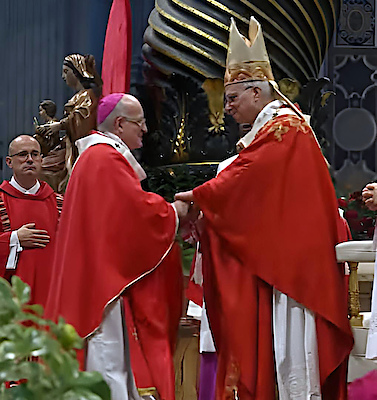
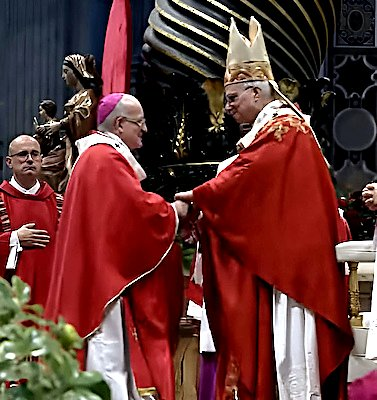
maj

diff --git a/horaire.html b/horaire.html
@@ -1,1 +1,1 @@
-<!DOCTYPE html><html lang="fr"><head><meta charset="UTF-8"><title>Horaire liturgique</title><meta name="viewport" content="width=device-width, initial-scale=1"><link rel="stylesheet" href="App.css"><script src="App.js" defer="defer"></script></head><body><main><!-- Sidebar--><div id="mySidebar"></div><!-- Page Content--><div class="w3-overlay" id="myOverlay" onclick="w3_close()" style="cursor: pointer"></div><div><div class="w3-bar w3-border w3-border-blue-grey w3-round-xlarge margin-top" id="hero"><button class="w3-button w3-xxlarge w3-left w3-hover-blue w3-round-xlarge" id="hamburger" onclick="w3_open()">&#x2630;</button><a class="w3-text-blue w3-right w3-xxxlarge w3-serif text-shadow bold italic" style="padding-right: 1.5rem; text-decoration: none" href="index.html">Paroisse St-Paul de Senneterre</a></div><div class="w3-container"><div id="pageTitle">Horaire liturgique</div><div class="card w50"><h2>Célébrations à venir</h2><br><table id="horaire" cellspacing="0" summary="tableau"><tr><td>Mer<br>1</td><td>15h00</td><td>Messe à Senneterre</td></tr><tr><td>Jeu<br>2</td><td>15h30 </td><td class="ext">Messe à Barraute</td></tr><tr><td>Ven<br>3</td><td class="va-top">15h00</td><td> Messe à Senneterre<br>Prière d’adoration<span class="ext"> (immédiatement après la messe)</span></td></tr><tr><td>Dim<br>5</td><td>9h30<br>11h00<br>16h00</td><td><span class="ext">Messe à La Morandière<br>Messe à Barraute</span><br>Messe à Senneterre</td></tr><tr><td>Lun<br>6</td><td>15h00</td><td>Messe à La Maisonnée</td></tr><tr><td>Mar<br>6<br>à<br>Sam<br>11</td><td> </td><td>Pas de messe<br>(curé en vacances)</td></tr><tr><td>Dim<br>12</td><td>16h00</td><td>Célébration de la Parole</td></tr></table></div></div></div></main></body></html>
+<!DOCTYPE html><html lang="fr"><head><meta charset="UTF-8"><title>Horaire liturgique</title><meta name="viewport" content="width=device-width, initial-scale=1"><link rel="stylesheet" href="App.css"><script src="App.js" defer="defer"></script></head><body><main><!-- Sidebar--><div id="mySidebar"></div><!-- Page Content--><div class="w3-overlay" id="myOverlay" onclick="w3_close()" style="cursor: pointer"></div><div><div class="w3-bar w3-border w3-border-blue-grey w3-round-xlarge margin-top" id="hero"><button class="w3-button w3-xxlarge w3-left w3-hover-blue w3-round-xlarge" id="hamburger" onclick="w3_open()">&#x2630;</button><a class="w3-text-blue w3-right w3-xxxlarge w3-serif text-shadow bold italic" style="padding-right: 1.5rem; text-decoration: none" href="index.html">Paroisse St-Paul de Senneterre</a></div><div class="w3-container"><div id="pageTitle">Horaire liturgique</div><div class="card w50"><h2>Célébrations à venir</h2><br><table id="horaire" cellspacing="0" summary="tableau"><tr><td>Dim<br>5</td><td>9h30<br>11h00<br>16h00</td><td><span class="ext">Messe à La Morandière<br>Messe à Barraute</span><br>Messe à Senneterre</td></tr><tr><td>Lun<br>6</td><td>15h00</td><td>Messe à La Maisonnée</td></tr><tr><td>Mar<br>6<br>à<br>Sam<br>11</td><td> </td><td>Pas de messe<br>(curé en vacances)</td></tr><tr><td>Dim<br>12</td><td>16h00</td><td>Célébration de la Parole</td></tr><tr><td>Lun<br>13<br>à<br>Sam<br>18</td><td> </td><td>Pas de messe<br>(curé en vacances)</td></tr></table></div></div></div></main></body></html>

diff --git a/index.html b/index.html
@@ -1,1 +1,1 @@
-<!DOCTYPE html><html lang="fr"><head><meta charset="UTF-8"><title>Accueil</title><meta name="viewport" content="width=device-width, initial-scale=1"><link rel="stylesheet" href="App.css"><script src="App.js" defer="defer"></script></head><body><main><!-- Sidebar--><div id="mySidebar"></div><!-- Page Content--><div class="w3-overlay" id="myOverlay" onclick="w3_close()" style="cursor: pointer"></div><div><div class="w3-bar w3-border w3-border-blue-grey w3-round-xlarge margin-top" id="hero"><button class="w3-button w3-xxlarge w3-left w3-hover-blue w3-round-xlarge" id="hamburger" onclick="w3_open()">&#x2630;</button><a class="w3-text-blue w3-right w3-xxxlarge w3-serif text-shadow bold italic" style="padding-right: 1.5rem; text-decoration: none" href="index.html">Paroisse St-Paul de Senneterre</a></div><div class="w3-container"><!-- silence--><div class="card bold flex flex-middle center" id="clip" style="width: 90%"><img src="assets/eglise-pix-3.jpg" alt="Notre église" srcset="assets/eglise-pix-3.avif" style="padding-right: 1rem; height: 123px; width: 189px"><p class="text-justify">Sise en la ville de Senneterre (Québec, Canada), l’église actuelle a été construite en 1960, selon les plans de l’architecte Jean-Charles Fortin, de St-Lambert (Comté de Chambly, Qc). Inaugurée le 25 décembre 1960, elle a été bénite le 25 juin 1961, par Mgr Albert Sanschagrin, o.m.i., Administrateur Apostolique.</p></div><div class="card w3-padding center w3-margin-top fit w3-center bold margin-top"><p>Dernière mise à jour : le 1ᵉʳ juillet 2026</p><p>Webmestre :  <a class="x-button" href="mailto:[email redacted]">Christian Bélisle</a></p></div><div class="card mt-1 mx-auto text-center fnt-i small" style="width: 440px"><img class="border-radius-5 w3-card mg-1" src="clin-471.jpg" title="Le 29 juin dernier, le Pape a remis le pallium à 35 nouveaux archevêques métropolitains (dont Mgr Guy Boulanger, récemment nommé archevêque de Sherbrooke) lors d’une messe présidée en la basilique Saint-Pierre."><br>Le 29 juin dernier, le Pape a remis le pallium à 35 nouveaux archevêques métropolitains (dont Mgr Guy Boulanger, que l’on voit ici, récemment nommé archevêque de Sherbrooke) lors d’une messe présidée en la basilique Saint-Pierre.</div><div class="w3-center w3-padding-top-64 w3-margin-bottom w3-medium italic w3-text-black">&copy; 2024 Christian Bélisle </div></div></div></main></body></html>
+<!DOCTYPE html><html lang="fr"><head><meta charset="UTF-8"><title>Accueil</title><meta name="viewport" content="width=device-width, initial-scale=1"><link rel="stylesheet" href="App.css"><script src="App.js" defer="defer"></script></head><body><main><!-- Sidebar--><div id="mySidebar"></div><!-- Page Content--><div class="w3-overlay" id="myOverlay" onclick="w3_close()" style="cursor: pointer"></div><div><div class="w3-bar w3-border w3-border-blue-grey w3-round-xlarge margin-top" id="hero"><button class="w3-button w3-xxlarge w3-left w3-hover-blue w3-round-xlarge" id="hamburger" onclick="w3_open()">&#x2630;</button><a class="w3-text-blue w3-right w3-xxxlarge w3-serif text-shadow bold italic" style="padding-right: 1.5rem; text-decoration: none" href="index.html">Paroisse St-Paul de Senneterre</a></div><div class="w3-container"><!-- silence--><div class="card bold flex flex-middle center" id="clip" style="width: 90%"><img src="assets/eglise-pix-3.jpg" alt="Notre église" srcset="assets/eglise-pix-3.avif" style="padding-right: 1rem; height: 123px; width: 189px"><p class="text-justify">Sise en la ville de Senneterre (Québec, Canada), l’église actuelle a été construite en 1960, selon les plans de l’architecte Jean-Charles Fortin, de St-Lambert (Comté de Chambly, Qc). Inaugurée le 25 décembre 1960, elle a été bénite le 25 juin 1961, par Mgr Albert Sanschagrin, o.m.i., Administrateur Apostolique.</p></div><div class="card w3-padding center w3-margin-top fit w3-center bold margin-top"><p>Dernière mise à jour : le 4 juillet 2026</p><p>Webmestre :  <a class="x-button" href="mailto:[email redacted]">Christian Bélisle</a></p></div><div class="card mt-1 mx-auto text-center fnt-i small" style="width: 440px"><img class="border-radius-5 w3-card mg-1" src="clin-471.jpg" title="Le 29 juin dernier, le Pape a remis le pallium à 35 nouveaux archevêques métropolitains (dont Mgr Guy Boulanger, récemment nommé archevêque de Sherbrooke) lors d’une messe présidée en la basilique Saint-Pierre."><br>Le 29 juin dernier, le Pape a remis le pallium à 35 nouveaux archevêques métropolitains (dont Mgr Guy Boulanger, que l’on voit ici, récemment nommé archevêque de Sherbrooke) lors d’une messe présidée en la basilique Saint-Pierre.</div><div class="w3-center w3-padding-top-64 w3-margin-bottom w3-medium italic w3-text-black">&copy; 2024 Christian Bélisle </div></div></div></main></body></html>